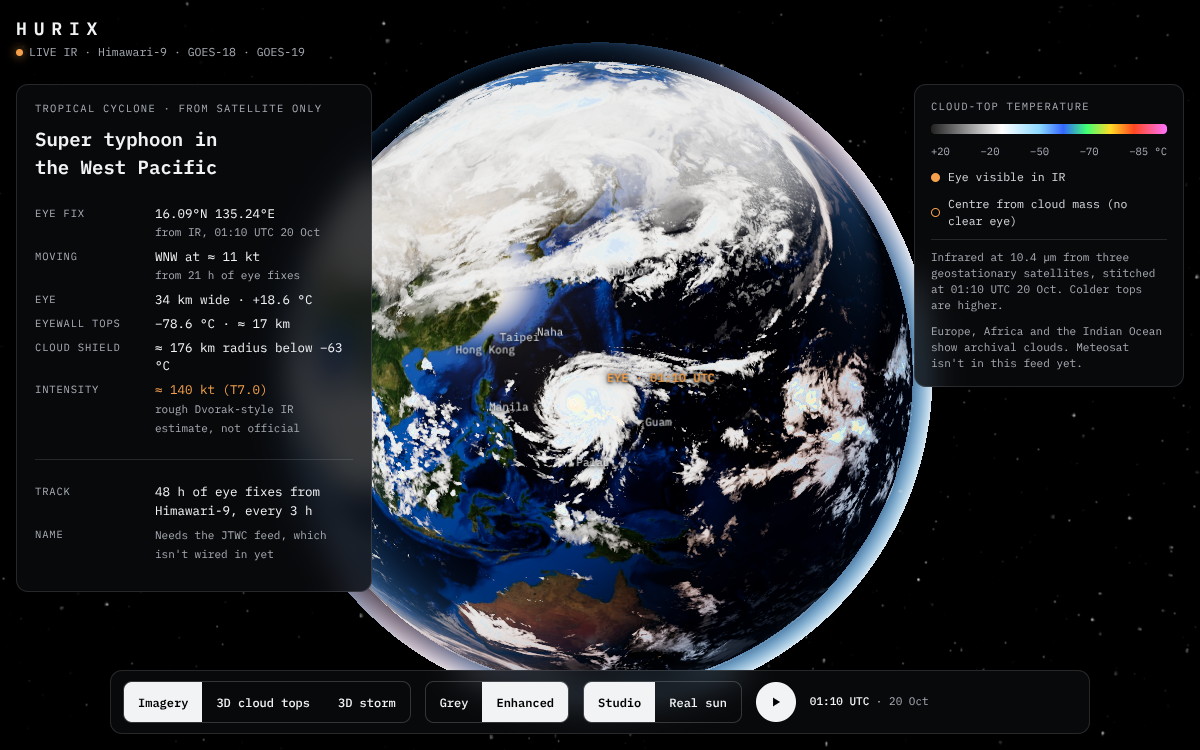
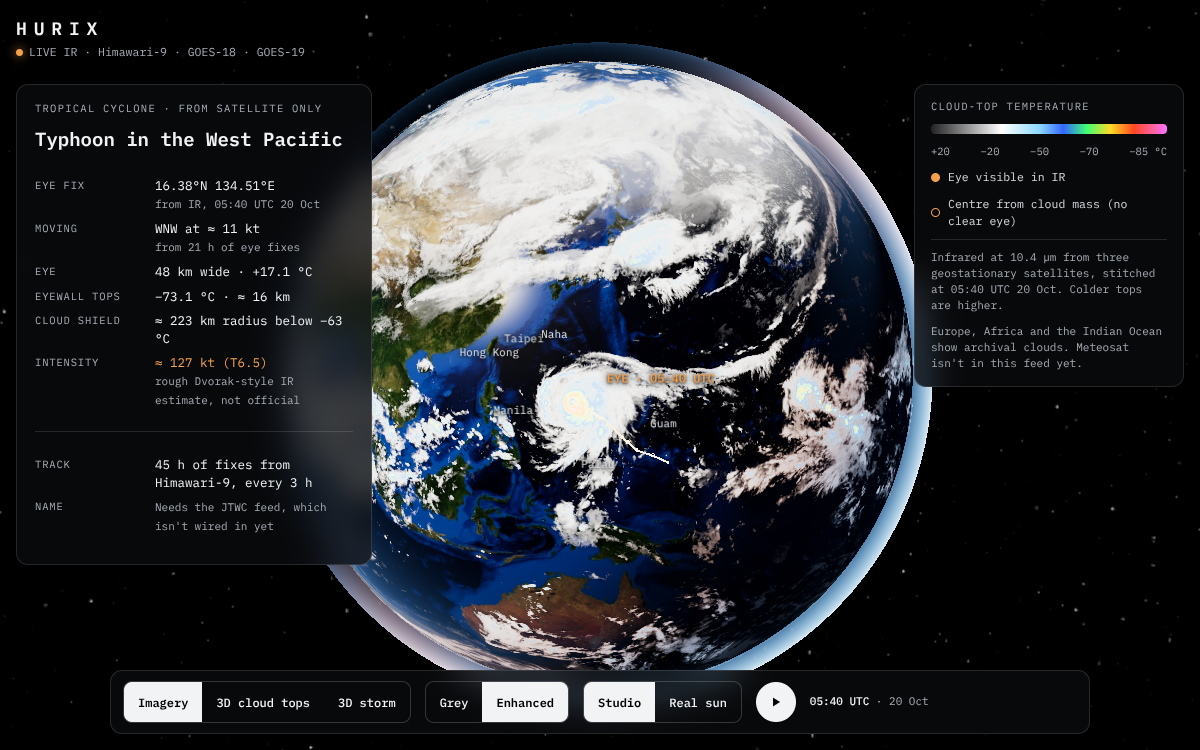
Refresh to the 05:40 UTC frame and handle missing satellite slots
- storm.py: Himawari skips 02:40 and 14:40 UTC every day; a missing
  slot now falls back to its neighbour 10 minutes away instead of
  crashing, and the track ends when the centre has no deep convection
  left to fix on.
- export.py: records each loop frame's time (the loop can have gaps)
  and removes frames left over from a longer loop.
- The UI shows the real loop frame times and the track's actual span,
  and renders the 3D storm at a lower pixel ratio on dense screens.

Claude-Session: https://claude.ai/code/session_01QYM96A5jYZ8WCcz2XzXixJ

diff --git a/src/hdr/scene.ts b/src/hdr/scene.ts
@@ -39,6 +39,8 @@ export function createGlobe(canvas: HTMLCanvasElement, meta: Meta, base: string,
   const RMW_KM = Math.max(15, (meta.eyeDiameterKm ?? 30) * 0.65);
   const LOOP_N = meta.loopFrames;
 
+  let mode: Mode = 0, realSun = false;
+
   // ---------- renderer ----------
   const renderer = new THREE.WebGLRenderer({ canvas, antialias: true, powerPreference: "high-performance" });
   renderer.setPixelRatio(Math.min(devicePixelRatio, 2));
@@ -203,8 +205,7 @@ export function createGlobe(canvas: HTMLCanvasElement, meta: Meta, base: string,
   setBox();
 
   // ---------- camera moves ----------
-  let mode: Mode = 0, realSun = false;
-  let fly: { p0: THREE.Vector3; p1: THREE.Vector3; t0: THREE.Vector3; t1: THREE.Vector3; start: number; ms: number } | null = null;
+    let fly: { p0: THREE.Vector3; p1: THREE.Vector3; t0: THREE.Vector3; t1: THREE.Vector3; start: number; ms: number } | null = null;
   const flyTo = (pos: THREE.Vector3, target: THREE.Vector3, ms = 1800) => {
     fly = { p0: camera.position.clone(), p1: pos, t0: controls.target.clone(), t1: target, start: performance.now(), ms: reduceMotion ? 1 : ms };
   };
@@ -214,7 +215,10 @@ export function createGlobe(canvas: HTMLCanvasElement, meta: Meta, base: string,
     return { pos: eye.clone().add(back), target: eye.clone() };
   };
 
+  // the volume ray-march is the costly pass, so the 3D storm renders at a lower pixel ratio on high-density screens
+  const pixelRatio = (m: Mode) => Math.min(devicePixelRatio, m === 2 ? 1.25 : 2);
   function resize() {
+    renderer.setPixelRatio(pixelRatio(mode)); composer.setPixelRatio(pixelRatio(mode));
     const w = canvas.clientWidth, h = canvas.clientHeight;
     renderer.setSize(w, h, false); composer.setSize(w, h); bloom.setSize(w, h);
     camera.aspect = w / h; camera.updateProjectionMatrix();
@@ -261,6 +265,7 @@ export function createGlobe(canvas: HTMLCanvasElement, meta: Meta, base: string,
     eye,
     setMode(m) {
       mode = m;
+      resize();
       uni.patchOn.value = m > 0 ? 1 : 0;
       patch.visible = m === 1; volBox.visible = m === 2; particles.visible = m === 2;
       trackGroup.visible = m === 0; pulse.visible = m === 0;

diff --git a/src/ui.ts b/src/ui.ts
@@ -23,6 +23,8 @@ export function fillCard(meta: Meta) {
   $("eyed").textContent = meta.eyeDiameterKm ? `${meta.eyeDiameterKm} km wide · ${degC(meta.eyeK)}` : "Not clear in this frame";
   $("tops").textContent = `${degC(meta.ringK)} · ≈ ${topKm(meta.ringK).toFixed(0)} km`;
   $("cdo").textContent = `≈ ${meta.cdoRadiusKm} km radius below −63 °C`;
+  const tr = meta.track, span = tr.length > 1 ? Math.round((Date.parse(tr[tr.length - 1][0]) - Date.parse(tr[0][0])) / 36e5) : 0;
+  $("trackinfo").textContent = `${span} h of fixes from Himawari-9, every 3 h`;
   html("vmax", `≈ ${dv.kt} kt (T${dv.t.toFixed(1)})<br><small>rough Dvorak-style IR estimate, not official</small>`);
 }
 
@@ -70,14 +72,15 @@ export function bindControls(globe: Globe, meta: Meta) {
   const els = labels.map((l) => root.appendChild(Object.assign(document.createElement("div"), { className: l.cls, textContent: l.text })));
   const canvas = $("gl"), tmp = new THREE.Vector3(), toCam = new THREE.Vector3();
 
-  let shownMins = -1, shownPlaying = !playing;
+  let shownIdx = -1, shownPlaying = !playing;
   globe.onFrame((mode, dt) => {
     if (playing) loopT = (loopT + dt * 3.0) % loopN;
     globe.setLoop(playing ? loopT : null);
-    const mins = Math.round((loopN - 1 - loopT) * 10);
-    if (mins !== shownMins || playing !== shownPlaying) {
-      shownMins = mins; shownPlaying = playing;
-      const t = new Date(frame.getTime() - mins * 60000);
+    const shown = Math.min(Math.round(loopT), loopN - 1);
+    if (shown !== shownIdx || playing !== shownPlaying) {
+      shownIdx = shown; shownPlaying = playing;
+      const iso = meta.loopTimes?.[shown];
+      const t = iso ? new Date(iso.replace("Z", ":00Z")) : new Date(frame.getTime() - (loopN - 1 - shown) * 600000);
       timeEl.innerHTML = `<b>${hhmm(t)}</b> · ${dayStr(t)}${playing ? " · loop" : ""}`;
     }
     const w = canvas.clientWidth, h = canvas.clientHeight, cam = globe.camera;

diff --git a/src/meta.ts b/src/meta.ts
@@ -4,6 +4,8 @@ export interface Meta {
   /** Frame time, "YYYY-MM-DDTHH:MMZ". */
   frame: string;
   loopFrames: number;
+  /** Time of each loop frame (older pipelines left this out; the frames were then 10 minutes apart). */
+  loopTimes?: string[];
   eye: { lat: number; lon: number };
   /** Warmest pixel in the eye and coldest top in the ring around it, in kelvin. */
   eyeK: number;

diff --git a/index.html b/index.html
@@ -30,7 +30,7 @@
       </dl>
       <div class="sep"></div>
       <dl class="grid more">
-        <dt>Track</dt><dd>48 h of eye fixes from Himawari-9, every 3 h</dd>
+        <dt>Track</dt><dd id="trackinfo">…</dd>
         <dt>Name</dt><dd><small>Needs the JTWC feed, which isn't wired in yet</small></dd>
       </dl>
     </section>

diff --git a/pipeline/export.py b/pipeline/export.py
@@ -37,7 +37,7 @@ os.environ.setdefault("ROWS", "2,3,4"); os.environ.setdefault("COLS", "2,3,4,5,6
 import importlib.util
 spec = importlib.util.spec_from_file_location("storm", os.path.join(HERE, "storm.py")); storm = importlib.util.module_from_spec(spec); spec.loader.exec_module(storm)
 rows = [int(v) for v in os.environ["ROWS"].split(",")]; cols = [int(v) for v in os.environ["COLS"].split(",")]
-n = 0
+n, times = 0, []
 for k in range(17, -1, -1):
     when = FRAME - timedelta(minutes=10 * k)
     try:
@@ -46,6 +46,10 @@ for k in range(17, -1, -1):
         print("loop skip", when, e); continue
     c = np.pad(np.nan_to_num(im, nan=290), half, mode="edge")[ey:ey + 2 * half, ex:ex + 2 * half]
     Image.fromarray((code(c) * 255 + .5).astype(np.uint8)).resize((768, 768), Image.LANCZOS).save(os.path.join(OUT, "loop", f"f{n:02d}.jpg"), quality=90); n += 1
+    times.append(when.strftime("%Y-%m-%dT%H:%MZ"))
+for old in os.listdir(os.path.join(OUT, "loop")):  # frames left over from a longer loop
+    if old.endswith(".jpg") and int(old[1:3]) >= n:
+        os.remove(os.path.join(OUT, "loop", old))
 
 track = json.load(open(os.path.join(HERE, "track.json")))
 # motion from the last ~21 h of clear-eye fixes
@@ -54,7 +58,7 @@ a, b = clear[max(len(clear) - 8, 0)], clear[-1]
 hrs = (datetime.strptime(b["t"], "%Y-%m-%dT%H:%MZ") - datetime.strptime(a["t"], "%Y-%m-%dT%H:%MZ")).total_seconds() / 3600
 dy = (b["lat"] - a["lat"]) * 60; dx = (b["lon"] - a["lon"]) * 60 * np.cos(np.radians((a["lat"] + b["lat"]) / 2))
 meta = {
-    "frame": FRAME.strftime("%Y-%m-%dT%H:%MZ"), "loopFrames": n,
+    "frame": FRAME.strftime("%Y-%m-%dT%H:%MZ"), "loopFrames": n, "loopTimes": times,
     "eye": {"lat": track[-1]["lat"], "lon": track[-1]["lon"]},
     "eyeK": round(eye_k, 1), "ringK": round(ring_k, 1), "eyeDiameterKm": round(float(eye_d), 0) if eye_d else None,
     "cdoRadiusKm": round(cdo_r), "motion": {"kt": round(float(np.hypot(dx, dy) / hrs), 1), "bearing": round(float((np.degrees(np.arctan2(dx, dy)) + 360) % 360)), "hours": round(hrs)},

diff --git a/pipeline/storm.py b/pipeline/storm.py
@@ -60,6 +60,8 @@ def fetch_tiles(when, rows, cols):
             img[r - r0:r - r0 + 550, c - c0:c - c0 + 550] = np.ma.filled(d["Sectorized_CMI"][:].astype(np.float32), np.nan)
             xx = d["x"][:] * 1e-6; yy = d["y"][:] * 1e-6
             xs = xx[0] - (c - c0) * DX; ys = yy[0] + (r - r0) * DX
+    if xs is None:  # e.g. Himawari's daily housekeeping slot at 02:40 UTC has no data
+        raise FileNotFoundError(f"no band-13 tiles at {when:%Y-%m-%d %H:%M}")
     return img, xs, ys  # x of column 0, y of row 0 (y decreases downward)
 
 
@@ -105,14 +107,20 @@ if __name__ == "__main__":
     frames = []
     pts = []
     for h in range(0, 49, 3):
-        when = t_end - timedelta(hours=h)
-        try:
-            img, x0, y0 = fetch_tiles(when, rows, cols)
-        except Exception as e:  # a missing hour is skipped, not filled in
-            print("skip", when, e); continue
+        img = None
+        for dm in (0, -10, 10):  # a missing slot falls back to its neighbour 10 minutes away
+            when = t_end - timedelta(hours=h, minutes=dm)
+            try:
+                img, x0, y0 = fetch_tiles(when, rows, cols); break
+            except Exception as e:
+                print("skip", when, e)
+        if img is None:  # a missing fix is left out, not filled in
+            continue
         if len(pts) >= 2:  # extrapolate the motion of the last two fixes
             guess = (2 * pts[-1][0] - pts[-2][0], 2 * pts[-1][1] - pts[-2][1])
         ex, ey, teye, tring, score = find_eye(img, guess, search=120 if guess is None else 40)
+        if tring > 240 and track:  # no deep convection near the centre: too weak to fix reliably, so the track ends here
+            print("stop", when, "ring", round(tring, 1)); break
         clear = teye > 260 and score > 50
         if not clear and guess is not None:  # no eye yet: centre of the coldest cloud mass near the expected spot
             from scipy.ndimage import gaussian_filter

diff --git a/README.md b/README.md
@@ -38,7 +38,7 @@ npm run build      # type-check and build the static site into dist/
 ```sh
 python3 -m pip install -r pipeline/requirements.txt
 npm run data                          # the slot 40 minutes ago
-sh pipeline/run.sh 2026-10-20T01:10   # or a given 10-minute slot (UTC)
+sh pipeline/run.sh 2026-10-20T05:40   # or a given 10-minute slot (UTC)
 ```
 
 The pipeline reads NOAA's open data on AWS (no account needed) and writes `public/data`:
